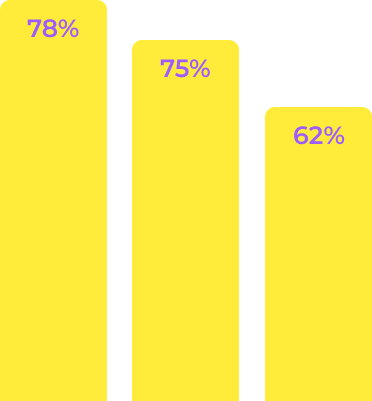
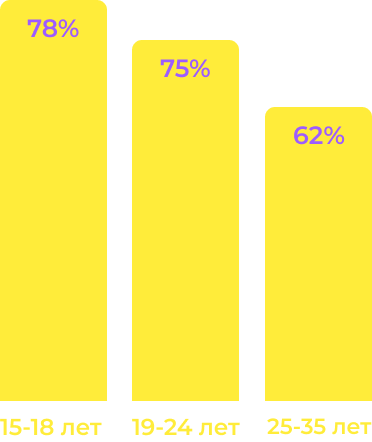
4 commit

diff --git a/index.html b/index.html
@@ -9,6 +9,8 @@
     <link rel="stylesheet" href="./css/productPage.css">
     <link rel="stylesheet" href="./css/problemPage.css">
     <link rel="stylesheet" href="./css/research.css">
+    <link rel="stylesheet" href="./css/author.css">
+    <link rel="stylesheet" href="./css/footer.css">
      <link rel="stylesheet" href="./fonts/Usually-font.otf" type="text/css">
  <link rel="preconnect" href="https://fonts.googleapis.com">
 <link rel="preconnect" href="https://fonts.gstatic.com" crossorigin>
@@ -86,59 +88,30 @@
     <div class="problem_page">
         <div class="problem_page_container">
             <h4>ПРОБЛЕМАТИКА</h4>
-        </div>
+        
         <div class="wrapper">
-       <!-- <div class="slider">
+        <div class="slider">
             <div class="slider_item">
-                 <div class="slider_item_container">
-                    <div class="slider_item_img">
-                        <img src="./img/prob/image0.png\" alt="">
+                        <img src="./img/slider/kollazh_1.png" alt="">
+                        <p>От Нас в 18 требуют какое-то решение, но не дают никакой подготовки и данных.</p>
+                        <div class="img_description">15-18 лет</div>
                     </div>
-                    
-                    <div class="slider_item_img">
-                        <img src="./img/prob/image1.png" alt="">
+                    <div class="slider_item">
+                        <img src="./img/slider/kollazh_2.png" alt="">
+                        <p>Мы теряем свое время там, где не хотим находиться.</p>
                     </div>
-                    <div class="slider_item_img">
-                        <img src="./img/prob/image2.png" alt="">
+                    <div class="slider_item">
+                        <img src="./img/slider/kollazh_3.png" alt="">
+                        <p>Мы загоняем себя в лабиринт, из которого уже не видим выхода. </p>
                     </div>
+                
             </div> 
                 </div>
-            
-            <div class="slider_item">
-                  <div class="slider_item_container">
-                    <div class="slider_item_img">
-                        <img src="./img/prob/image3.png\" alt="">
-                    </div>
-                    
-                    <div class="slider_item_img">
-                        <img src="./img/prob/image4.png" alt="">
-                    </div>
-                    <div class="slider_item_img">
-                        <img src="./img/prob/image5.png" alt="">
-                    </div>
-            </div>
-            </div>
-            <div class="slider_item">
-                  <div class="slider_item_container">
-                    <div class="slider_item_img">
-                        <img src="./img/prob/image6.png\" alt="">
-                    </div>
-                    
-                    
-                    <div class="slider_item_img">
-                        <img src="./img/prob/image7.png" alt="">
-                    </div>
-                    <div class="slider_item_img">
-                        <img src="./img/prob/image8.png" alt="">
-                    </div>
-            </div>
-        </div>
-            </div> -->
-</div>
 
-      <!-- <script src="https://code.jquery.com/jquery-3.4.1.min.js"></script>
+      <script src="https://code.jquery.com/jquery-3.4.1.min.js"></script>
         <script src="/Js/slick.min.js"></script>
-        <script src="/Js/index.js"></script> -->
+        <script src="/Js/index.js"></script> 
+        </div>
     </div>
 
     <div class="research_page">
@@ -168,7 +141,7 @@
 <div class="graph_flex_container">
     <div class="graph_flex_item">
 <div class="graph_img1">
-    <img src="./img/research/grafik1.png" alt="">
+    <img src="./img/research/grafik_1.png" alt="">
 </div>
 <div class="graph_description v1">
     <p>Такое количество людей 
@@ -199,7 +172,55 @@
 
         </div>
     </div>
+<div class="author_page">
+    <div class="author_page_container">
+<h6>Автор Идеи - Команда</h6>
+<div class="wrapper2">
+<div class="slider">
+            <div class="slider_item">
+                        <img src="./img/authors/Group_28.png" alt="">
+                    </div>
+                    <div class="slider_item">
+                        <img src="./img/authors/Group_27.png" alt="">
+                    </div>
+                    <div class="slider_item">
+                        <img src="./img/authors/Group_26.png" alt="">
+                    </div>
+                     <div class="slider_item">
+                        <img src="./img/authors/Group_25.png" alt="">
+                    </div>
+                
+            </div> 
+                </div>
+    </div>
+        <div class="author_background">
+    <div class="author_background_footer">
+        <img src="./img/2 экран/3 экран/4 экран/5 экран/фон4.png" alt="">
+    </div>
 
+
+</div>
+       <div class="author_background_item">
+    <img src="./img/2 экран/3 экран/4 экран/5 экран/Bright thing 4.png" alt="" class="item v1">
+    <img src="./img/2 экран/3 экран/4 экран/5 экран/Ellipse 10.png" alt="" class="item v2">
+    <img src="./img/2 экран/3 экран/4 экран/5 экран/Ellipse 11.png"alt="" class="item v3">
+    <img src="./img/2 экран/3 экран/4 экран/Ellipse 12.png" alt="" class="item v4">
+    <img src="./img/2 экран/3 экран/4 экран/5 экран/Ellipse 13.png" alt="" class="item v5">
+    <img src="./img/2 экран/3 экран/4 экран/5 экран/Ellipse 14.png" alt="" class="item v6">
+    <img src="./img/2 экран/3 экран/4 экран/5 экран/Ellipse 15.png" alt="" class="item v7">
+    <img src="./img/2 экран/3 экран/4 экран/5 экран/Ellipse 16.png" alt="" class="item v8">
+    <img src="./img/2 экран/3 экран/4 экран/5 экран/размытие 1.png" alt="" class="item v9">
+    <img src="./img/2 экран/3 экран/4 экран/5 экран/разм 2.png" alt="" class="item v10">
+</div> 
+
+    </div>
+<footer>
+    <ul class="footer_description">
+        <li><a href="tel:+79117505419">+79117505419</a></li>
+        <li class="logo">WAI</li>
+        <li><a href="mailto:yuramolina@mail.ru">yuramolina@mail.ru</a></li>
+    </ul>
+</footer>
 
 
 

diff --git a/css/problemPage.css b/css/problemPage.css
@@ -44,30 +44,54 @@ h4 {
         letter-spacing: 24px;
     }
 
+    .wrapper {
+        width: 100%;
+        height: 100%;
+        overflow: hidden;
+    }
     
 
-/*.slider_item_container {
-    display: flex;
-    flex-direction: row;
-}
+
 
 
 .slider {
-    width: 100%;
+   position: relative;
+}
+
+.slick_item {
+    width: 60%;
     height: 100%;
 }
 
+.slider_item p {
+   color:  #E8E8E8;
+   text-align: center;
+}
+
+.slick-slider.slider_item.img_description {
+    color: #FFEC3A;
+    opacity: 0.15;
+    transform: rotate(-90deg);
+}
+
     .slick-slider {
-width: 100%;
-    height: 100%;
+width: 60%;
+  
+    left: 20%;
+ 
         
     }
+
+        .slick-slider img {
+            width: 100%;
+        }
     .slick-list {
         overflow: hidden;
+        height: 400px;
     }
     .slick-track {
         display: flex;
-        align-items: flex-start;
+        align-items:baseline;
     }
 
 
@@ -76,13 +100,28 @@ width: 100%;
     .slick-slide.slick-current {}
     .slick-slide.slick-center {}
 
-    .slick-arrow{}
-    .slick-arrow.slick-prev {}
-    .slick-arrow.slick-next {}
+   .slider .slick-arrow{
+    position: absolute;
+    top: 35%;
+    z-index: 10;
+    font-size: 0;
+    width: 60px;
+    height: 50px;
+    
+   }
+    .slider .slick-arrow.slick-prev {
+        left: -100px;
+        background: url('../img/slider/Vector.png') 0 0 no-repeat;
+
+    }
+    .slider .slick-arrow.slick-next {
+        right: -100px;
+        background: url('../img/slider/Vector-1.png') 0 0 no-repeat;
+
+    }
     .slick-arrow.slick-disabled {}
 
     .slick-dots {}
     .slick-dots li {}
     .slick-dots button {}
-    */
 

diff --git a/css/author.css b/css/author.css
@@ -1,0 +1,57 @@
+@font-face {
+    font-family: "Usually-font";
+
+    src: local("Usually-font"),
+        url(/fonts/Usually-font.otf)
+}
+
+
+
+* {
+    list-style-type: none;
+    font-family: 'Montserrat';
+    -moz-box-sizing: border-box;
+    box-sizing: border-box;
+    text-decoration: none;
+}
+
+html,
+body {
+    padding: 0;
+    margin: 0;
+    overflow-x: hidden;
+}
+
+.author_page {
+    height: 100vh;
+    width: 100wh;
+    background: linear-gradient(268.09deg, #C09EEE 51.78%, #B890F1 93.11%);
+    overflow-y: hidden;
+    overflow-x: hidden;
+}
+
+.author_page_container {
+    width: 100%;
+    
+}
+
+h6 {
+    text-align: center;
+        font-size: 3em;
+        color: #FFEC3A;
+        top: 50px;
+        position: relative;
+        font-family: "Usually-font";
+        letter-spacing: 20px;
+        margin: 0px;
+}
+
+.author_background_footer {
+    width: 100%;
+    height: 100%;
+}
+
+.wrapper2 {
+        top: 100px;
+        position: relative;
+}

diff --git a/css/footer.css b/css/footer.css
@@ -1,0 +1,39 @@
+@font-face {
+    font-family: "Usually-font";
+
+    src: local("Usually-font"),
+        url(/fonts/Usually-font.otf)
+}
+
+* {
+    list-style-type: none;
+    -moz-box-sizing: border-box;
+    box-sizing: border-box;
+    text-decoration: none;
+}
+
+footer {
+    width: 100%;
+    background-color: black;
+    height: 200px;
+    margin: 0px;
+}
+
+.footer_description {
+    display: flex;
+    flex-direction: row;
+    justify-content: space-evenly;
+    position: relative;
+    top: 40%;
+    font-size: 2em;
+    margin: 0;
+    padding-left: 140px;
+    }
+
+        .footer_description a {
+            color: white;
+        }
+
+        .logo {
+            font-family: 'Usually-font';
+        }

diff --git a/css/research.css b/css/research.css
@@ -69,7 +69,7 @@ h5 {
 
 .graph_img1 {
     position: relative;
-    bottom: 85px;
+    bottom: 97px;
     text-align: center;
 }
 
@@ -83,7 +83,7 @@ h5 {
 
 .graph_img3 {
     position: relative;
-    bottom: 175px;
+    bottom: 195px;
     text-align: center;
 }
 
@@ -99,7 +99,7 @@ h5 {
 }
 
 .graph_description.v1 {
-bottom: 60px;
+bottom: 67px;
 
 
 }

diff --git a/Js/index.js b/Js/index.js
@@ -1,7 +1,6 @@
 $(document).ready(function (){
 $('.slider').slick({
     arrow: true,
-    dots: true,
     adaptiveHeight: true
 })
 })
